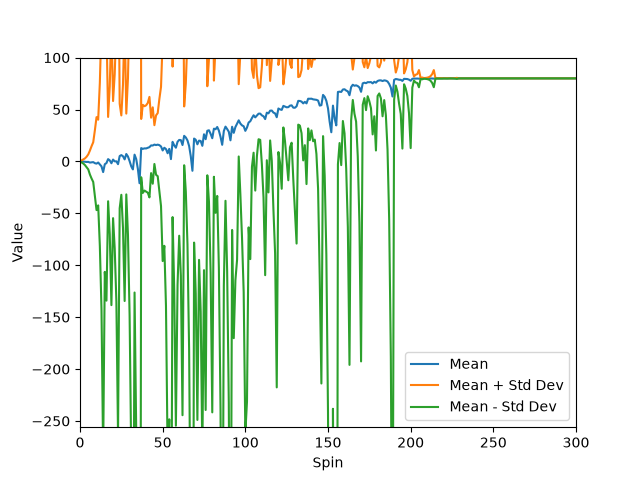
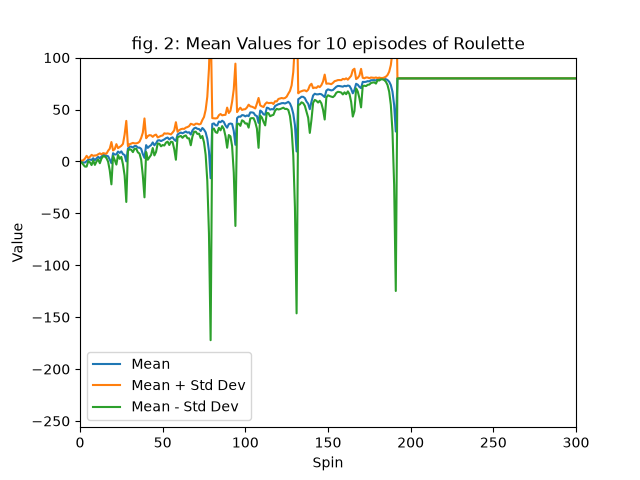
rm agg

Changed region(s): [[0.125, 0.0625, 0.9062, 0.9062]]

diff --git a/martingale_old.py b/martingale_old.py
@@ -1,4 +1,4 @@
-""""""  		  	   		 		  		  		  		    	 		 		   		 		  
+""""""
 """Assess a betting strategy.  		  	   		 		  		  		  		    	 		 		   		 		  
   		  	   		 		  		  		  		    	 		 		   		 		  
 Copyright 2018, Georgia Institute of Technology (Georgia Tech)  		  	   		 		  		  		  		    	 		 		   		 		  
@@ -21,34 +21,45 @@ GT honor code violation.
   		  	   		 		  		  		  		    	 		 		   		 		  
 -----do not edit anything above this line---  		  	   		 		  		  		  		    	 		 		   		 		  
   		  	   		 		  		  		  		    	 		 		   		 		  
-Student Name: Holden Beale (replace with your name)  		  	   		 		  		  		  		    	 		 		   		 		  
-GT User ID: hbeale7 (replace with your User ID)  		  	   		 		  		  		  		    	 		 		   		 		  
-GT ID: 904202603 (replace with your GT ID)  		  	   		 		  		  		  		    	 		 		   		 		  
-"""  		  	   		 		  		  		  		    	 		 		   		 		  
-  		  	   		 		  		  		  		    	 		 		   		 		  
+Student Name: Holden Beale
+GT User ID: hbeale7	  	   		 		  		  		  		    	 		 		   		 		  
+GT ID: 904202603		  	   		 		  		  		  		    	 		 		   		 		  
+"""
+
 import matplotlib
+matplotlib.use("Agg")
 
 import matplotlib.pyplot as plt
-import numpy as np  		  	   		 		  		  		  		    	 		 		   		 		  
-  		  	   		 		  		  		  		    	 		 		   		 		  
-  		  	   		 		  		  		  		    	 		 		   		 		  
-def author():  		  	   		 		  		  		  		    	 		 		   		 		  
+import numpy as np
+
+# DO NOT SUBMIT PLT.SHOW
+
+def author():
     """  		  	   		 		  		  		  		    	 		 		   		 		  
     :return: The GT username of the student  		  	   		 		  		  		  		    	 		 		   		 		  
     :rtype: str  		  	   		 		  		  		  		    	 		 		   		 		  
-    """  		  	   		 		  		  		  		    	 		 		   		 		  
-    return "hbeale7"    		  	   		 		  		  		  		    	 		 		   		 		  
-  		  	   		 		  		  		  		    	 		 		   		 		  
-  		  	   		 		  		  		  		    	 		 		   		 		  
-def gtid():  		  	   		 		  		  		  		    	 		 		   		 		  
+    """
+    return "hbeale7"  # replace tb34 with your Georgia Tech username.
+
+def study_group():
+    """
+    Returns
+            A comma separated string of GT_Name of each member of your study group
+            # Example: "gburdell3, jdoe77, tbalch7" or "gburdell3" if a single individual working alone
+
+        Return type
+            str
+    """
+    return "hbeale7"
+
+def gtid():
     """  		  	   		 		  		  		  		    	 		 		   		 		  
     :return: The GT ID of the student  		  	   		 		  		  		  		    	 		 		   		 		  
     :rtype: int  		  	   		 		  		  		  		    	 		 		   		 		  
-    """  		  	   		 		  		  		  		    	 		 		   		 		  
-    return 904202603    		  	   		 		  		  		  		    	 		 		   		 		  
-  		  	   		 		  		  		  		    	 		 		   		 		  
-  		  	   		 		  		  		  		    	 		 		   		 		  
-def get_spin_result(win_prob):  		  	   		 		  		  		  		    	 		 		   		 		  
+    """
+    return 904202603  # replace with your GT ID number
+
+def get_spin_result(win_prob):
     """  		  	   		 		  		  		  		    	 		 		   		 		  
     Given a win probability between 0 and 1, the function returns whether the probability will result in a win.  		  	   		 		  		  		  		    	 		 		   		 		  
   		  	   		 		  		  		  		    	 		 		   		 		  
@@ -56,37 +67,44 @@ def get_spin_result(win_prob):
     :type win_prob: float  		  	   		 		  		  		  		    	 		 		   		 		  
     :return: The result of the spin.  		  	   		 		  		  		  		    	 		 		   		 		  
     :rtype: bool  		  	   		 		  		  		  		    	 		 		   		 		  
-    """  		  	   		 		  		  		  		    	 		 		   		 		  
-    result = False  		  	   		 		  		  		  		    	 		 		   		 		  
-    if np.random.random() <= win_prob:  		  	   		 		  		  		  		    	 		 		   		 		  
-        result = True  		  	   		 		  		  		  		    	 		 		   		 		  
-    return result  		  	   		 		  		  		  		    	 		 		   		 		  
-  		  	   		 		  		  		  		    	 		 		   		 		  
-  		  	   		 		  		  		  		    	 		 		   		 		  
-def test_code():  		  	   		 		  		  		  		    	 		 		   		 		  
+    """
+    result = False
+    if np.random.random() <= win_prob:
+        result = True
+    return result
+
+def test_code():
     """  		  	   		 		  		  		  		    	 		 		   		 		  
     Method to test your code  		  	   		 		  		  		  		    	 		 		   		 		  
-    """  		  	   		 		  		  		  		    	 		 		   		 		  
-      		  	   		 		  		  		  		    	 		 		   		 		  
-    np.random.seed(gtid())  	   
+    """
+    # add your code here to implement the experiments
+    np.random.seed(gtid())  # do this only once
+    win_probability = 0.4737  # set appropriately to the probability of a win  		
     episode_size = 1000 # number of spins in an episode
+        	 		 		   		 		  
+    experiment1(win_probability, episode_size)
+    experiment2(win_probability, episode_size)
 
-    experiment1(episode_size)
-    experiment2(episode_size)
-
-
-def experiment1(episode_size):
+def experiment1(win_probability, episode_size):
     num_episodes = 10
-    spin_record = spin_multiple_episodes(num_episodes, episode_size, 0, False)
+
+    empty_arr = np.empty((num_episodes, episode_size))
+    # def spin_multiple_episodes(num_spins, big_arr, win_probability):
+
+    spin_record = spin_multiple_episodes(num_episodes, empty_arr, episode_size, win_probability)
 
     for i in range(num_episodes):
         plt.plot(spin_record[i], label=f"Episode {i + 1}")
 
-    plt.title("fig. 1: 10 Roulette Episodes")
+    plt.title("10 Roulette Episodes")
     std_plot()  
 
     plt.savefig("figure_1.png")
     plt.close()
+
+    arr_height = 1000
+    empty_arr = np.empty((arr_height, num_episodes))
+    spin_record = spin_multiple_episodes(arr_height, empty_arr, episode_size, win_probability)
 
     means = np.mean(spin_record, axis=0)
     medians = np.median(spin_record, axis=0)
@@ -97,7 +115,7 @@ def experiment1(episode_size):
     plt.plot(means + stddevs, label="Mean + Std Dev")
     plt.plot(means - stddevs, label="Mean - Std Dev")
 
-    plt.title("fig. 2: Mean Values for 10 episodes of Roulette")
+    plt.title("Mean Values for ")
     std_plot()
 
     plt.savefig("figure_2.png")
@@ -108,17 +126,24 @@ def experiment1(episode_size):
     plt.plot(medians + stddevs, label="Median + Std Dev")
     plt.plot(medians - stddevs, label="Median - Std Dev")
 
-    plt.title("fig. 3: Median Values for 10 episodes of Roulette")
     std_plot()
 
     plt.savefig("figure_3.png")
     plt.close()
 
-    print_results("experiment 1 results", means, medians, stddevs)
 
-def experiment2(episode_size):
+def experiment2(win_probability, episode_size):
     num_episodes = 1000
-    spin_record = spin_multiple_episodes(num_episodes, episode_size, -256, True)
+    empty_arr = np.empty((num_episodes, episode_size))
+    parameters = {
+        "empty_arr": empty_arr,
+        "num_episodes": num_episodes,
+        "episode_size": episode_size,
+        "win_probability": win_probability,
+        "bankroll_limit": -256,
+        "has_bankroll_limit": True
+    }
+    spin_record = spin_multiple_episodes_with_bankroll(**parameters)
 
     means = np.mean(spin_record, axis=0)
     medians = np.median(spin_record, axis=0)
@@ -129,7 +154,6 @@ def experiment2(episode_size):
     plt.plot(means + stddevs, label="Mean + Std Dev")
     plt.plot(means - stddevs, label="Mean - Std Dev")
 
-    plt.title("fig. 4: Mean Values for 1000 episodes of Roulette")
     std_plot()
 
     plt.savefig("figure_4.png")
@@ -140,22 +164,10 @@ def experiment2(episode_size):
     plt.plot(medians + stddevs, label="Median + Std Dev")
     plt.plot(medians - stddevs, label="Median - Std Dev")
 
-    plt.title("fig. 5: Median Values for 1000 episodes of Roulette")
     std_plot()
 
     plt.savefig("figure_5.png")
     plt.close()
-
-    values, counts = np.unique(spin_record[:, -1], return_counts=True)
-    print(values, counts)
-    EV = EV_calc(values, counts)
-    print("EV", EV)
-    print_results("experiment 2 results", means, medians, stddevs)
-
-def EV_calc(values, counts):
-    total = np.sum(counts)
-    EV = np.sum(values * counts) / total
-    return EV
 
 def std_plot():
     plt.xlabel("Spin")
@@ -165,37 +177,46 @@ def std_plot():
     plt.xlim(0, 300)
     plt.ylim(-256, 100)
 
-def print_results(title, mean, median, std):
-    with open(title + ".txt", "w") as f:
-        f.write("Roulette Simulation Results\n")
-        f.write("===========================\n\n")
-
-        # f.write(f"Episodes: {winnings_arr.shape[0]}\n")
-        # f.write(f"Spins: {winnings_arr.shape[1]}\n")
-        # f.write("Starting bankroll: $256\n\n")
-
-        f.write("winnings by spin:\n")
-        f.write("Spin\tMean\tMedian\tStd Dev\n")
-
-        for spin in [0, 9, 49, 99, 249, 499, 999]:
-            f.write(
-                f"{spin + 1}\t"
-                f"{mean[spin]:.2f}\t"
-                f"{median[spin]:.2f}\t"
-                f"{std[spin]:.2f}\n"
-            )
-
-def spin_multiple_episodes(num_episodes, episode_size, bankroll_limit, has_bankroll_limit):
-    filled_arr = np.empty((num_episodes, episode_size))
+def spin_multiple_episodes(num_episodes, big_arr, episode_size, win_probability):
+    filled_arr = big_arr.copy()
     for i in range(num_episodes):
-        filled_arr[i] = episode_spin(episode_size, bankroll_limit, has_bankroll_limit)
+        filled_arr[i] = episode_spin(episode_size, win_probability)
     return filled_arr
 
-def episode_spin(episode_size, bankroll_limit, has_bankroll_limit):
-    win_probability = 0.4737  # set appropriately to the probability of a win
+def spin_multiple_episodes_with_bankroll(num_episodes, big_arr, episode_size, win_probability, bankroll_limit, has_bankroll_limit):
+    filled_arr = big_arr.copy()
+    for i in range(num_episodes):
+        filled_arr[i] = episode_spin_with_bankroll(episode_size, win_probability, bankroll_limit)
+    return filled_arr
+
+def episode_spin(episode_size, win_probability):
     winnings_arr = []
     episode_winnings = 0
     attempts = 0
+    while episode_winnings < 80 and attempts < episode_size:
+        won = False
+        bet_amount = 1
+        while not won:
+            won = get_spin_result(win_probability)
+            winnings_arr.append(episode_winnings)
+            if won:
+                episode_winnings = episode_winnings + bet_amount
+            else:
+                episode_winnings = episode_winnings - bet_amount
+                bet_amount = bet_amount * 2
+            attempts = attempts + 1
+    #fill remaining with highest value
+    while attempts < episode_size:
+        winnings_arr.append(episode_winnings)
+        attempts = attempts + 1
+    return winnings_arr
+
+
+def episode_spin_with_bankroll(episode_size, win_probability, bankroll_limit):
+    winnings_arr = []
+    episode_winnings = 0
+    attempts = 0
+    # bankroll_limit = -256
 
     # smaller bankroll doesn't make it
     # bankroll_limit = -25
@@ -205,7 +226,7 @@ def episode_spin(episode_size, bankroll_limit, has_bankroll_limit):
     while episode_winnings < 80 and attempts < episode_size:
         won = False
         bet_amount = 1
-        if episode_winnings <= bankroll_limit and has_bankroll_limit:
+        if episode_winnings <= bankroll_limit:
             # print("bust")
             break
         while not won:
@@ -217,7 +238,7 @@ def episode_spin(episode_size, bankroll_limit, has_bankroll_limit):
                 episode_winnings = episode_winnings - bet_amount
                 bet_amount = bet_amount * 2
             attempts = attempts + 1
-            if episode_winnings <= bankroll_limit and has_bankroll_limit:
+            if episode_winnings <= bankroll_limit:
                 # print("bust")
                 break
     #fill remaining with highest value
@@ -227,5 +248,5 @@ def episode_spin(episode_size, bankroll_limit, has_bankroll_limit):
     return winnings_arr
 
 
-if __name__ == "__main__":  		  	   		 		  		  		  		    	 		 		   		 		  
-    test_code()  		  	   		 		  		  		  		    	 		 		   		 		  
+if __name__ == "__main__":
+    test_code()
